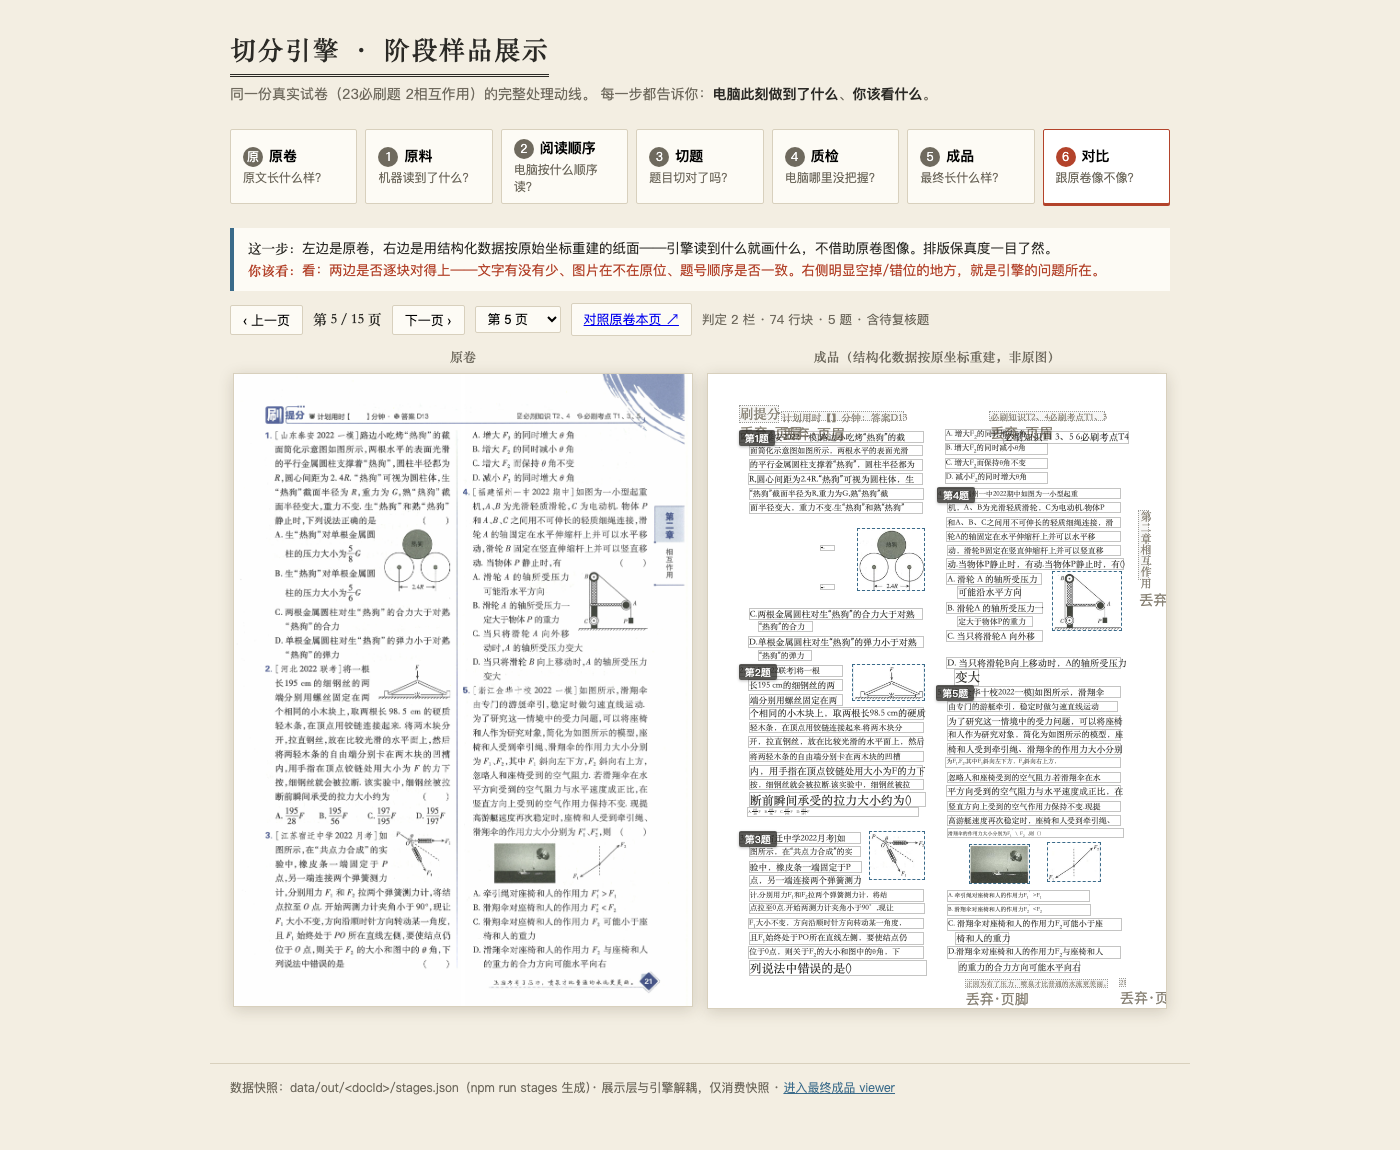
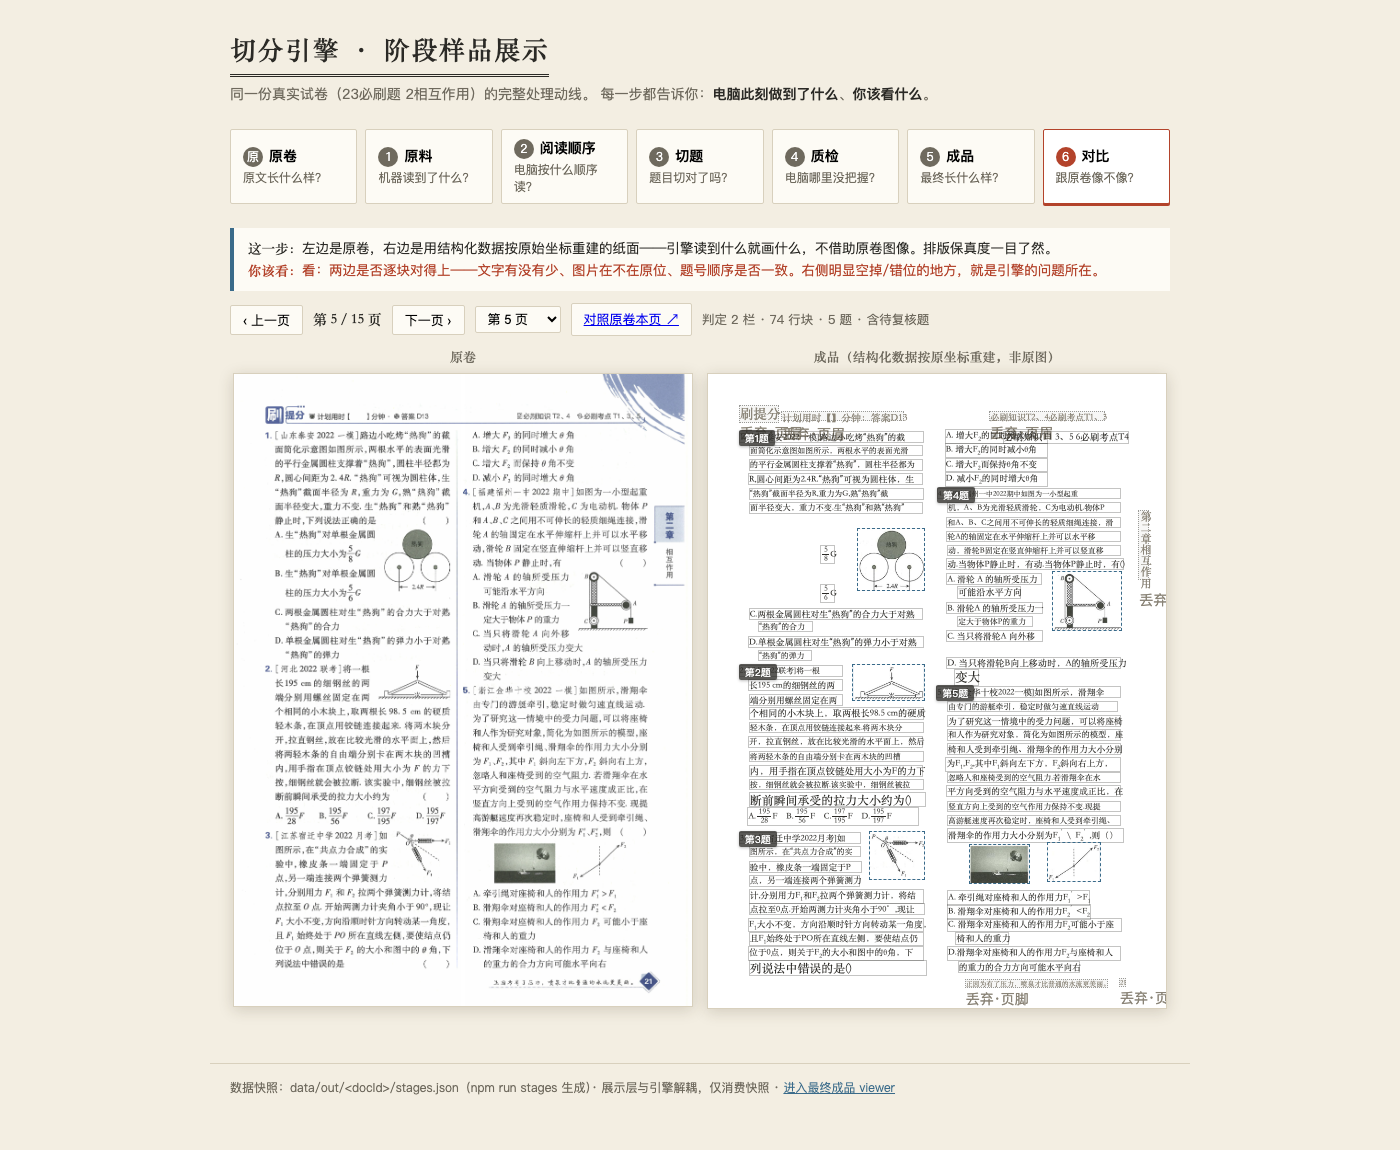
fix: 公式块豁免宽度夹子（修复 C1 过夹）+ 审计报告自身覆盖缺口
C1：clampByWidth 用原始 LaTeX 源码度量宽度（比渲染文本宽 3–5×），把公式块
字号压到基准的 0.20–0.75×（131/1015 块 <0.8×，最极端 1.76px）。
裁定：公式块不参与宽度夹子 —— emWidthOf 是线性字符宽度模型，对 \frac/\sqrt
这类二维排版不成立，用错误模型去夹比不夹更糟。公式块仍走 fontForBlock 的 baseFont。

- stages/font-metrics.js: 新增 hasMathSource(text)=/[\\$]|[_^]/；clampByWidth
  命中即返回未夹字号；头注释与 Ruling 落库
- stages/font-metrics.d.ts: hasMathSource 声明 + clampByWidth 注释对齐
- scripts/audit-render.mjs: 「字号保真度」「文字溢出」两节各报一行覆盖统计
  （覆盖块数/排除块数/排除原因分桶，分桶互斥且相加=排除总数）；文字溢出节把
  公式源码块列入排除桶（修复后触发率对其不再适用）
- tests/font-metrics.test.ts: +3 例（111→114）—— hasMathSource 命中/不命中、
  公式块豁免、纯 CJK/ASCII 仍被夹

复测（全 15 页 DOM）：
- 字号 <0.8×基准 131→17（残留全为非公式：8 行级块 + 9 丢弃块）
- 最极端 1.76px(0.20×)→4.39px(0.50×)
- 真实 DOM 溢出率 1.58%→5.42%；+39 全部为公式块，8 竖排 + 8 非公式逐块不变
- 审计覆盖统计：保真度 198/863（含公式源码 195）、溢出 925/491（含公式源码 280）

重拍 15 页对比截图 + 阶段 2/3 代表页（阶段 1 走 fontForRawBlock 不涉 clamp，
逐字节不变；第 3 页无公式块，逐字节不变）。docs 更正受影响数字（标注而非删除）：
stages-review.md 新增九轮 §9.1–§9.5、DECISIONS.md 新增 §19.7。
一并纳入控制器刚写入的计划 Task 7 追加（含 Ruling）。

npm run check 全绿（114/114，审计 9 项归零）。

diff --git a/stages/font-metrics.js b/stages/font-metrics.js
@@ -44,9 +44,16 @@
  * ── 行高模型的过冲与宽度安全上限（R3/R5，测量定案）──
  * `fontFromLineHeight` 对**行级水平**块成立，但 bboxH 被行盒/上下延伸撑大的个别行（页眉页脚、
  * `计划用时` 行、短标签）会被高估 → 渲染宽 > bbox 宽 → 压字。`clampByWidth` 把字号夹到
- * `bboxW_px / emWidthOf(text)`（含 ASCII 与纯 CJK 一视同仁；竖排与无文本块除外）。
+ * `bboxW_px / emWidthOf(text)`（含 ASCII 与纯 CJK 一视同仁；竖排、**公式源码块**与无文本块除外）。
  * **R3 的「拉丁字形失配」假设已被测量推翻**（混合组与纯 CJK 对照几乎相等，换拉丁字体栈无效）——
  * 证据见 data/out/latin-metrics.md，改法依据见 clampByWidth 注释。
+ *
+ * ── 公式块豁免夹子（C1 修复，Task 7）──
+ * `clampByWidth` 曾对**含公式的块**用 `emWidthOf(block.text)` 度量，而 `block.text` 是**原始
+ * LaTeX 源码**（如 `\frac{\sqrt3}{3}mg` 记 12.25em），渲染文本只有 3em → 夹子把公式块字号压到
+ * 基准的 **0.20–0.75×**（131/1015 块 <0.8×，最极端 **1.76px**），且审计判定项因排除 `\`/`$`/ASCII
+ * 块而看不见它。**裁定：公式块不参与宽度夹子**（`hasMathSource` 命中即返回未夹字号）——
+ * `emWidthOf` 是线性字符宽度模型，对二维排版（`\frac`/`\sqrt`）不成立，用错误模型夹比不夹更糟。
  */
 
 /** 行高 → 字号（画布 px）。
@@ -81,6 +88,20 @@ export function baseFontOfPage(blocks, pageWidth, canvasW) {
   if (!hs.length) return null;
   hs.sort((a, b) => a - b);
   return fontFromLineHeight((hs[Math.floor(hs.length / 2)] / pageWidth) * canvasW);
+}
+
+/** 公式源码判定（C1 修复，Task 7）：文本含 LaTeX 源码特征即命中 —— **反斜杠、美元符、
+ * 下划线、脱字符任一**。判据逐字采用裁定 `/[\\$]|[_^]/`，不自创更复杂的启发式。
+ *
+ * 为什么需要它：`block.text` 是**原始 LaTeX 源码**（如 `$F_{1}$`、`\frac{mg}{k_1+k_2}`），
+ * 而实际渲染走的是 `prettifyLatex(b.text)`。源码字符数比渲染文本宽 **3–5 倍**，
+ * `emWidthOf(raw)` 会把公式块的当量宽算大几倍 → `clampByWidth` 把字号压到基准的 0.20–0.75×
+ * （131/1015 块 <0.8×，最极端 1.76px）。命中本函数即表示「该块的宽度不能按源码度量」。
+ *
+ * @param {string} text 块的**原始**文本（LaTeX 源码）
+ */
+export function hasMathSource(text) {
+  return /[\\$]|[_^]/.test(text ?? "");
 }
 
 /** 竖排文本判定（R4）：bbox **高 > 2×宽**（严格大于，`bboxH == 2*bboxW` 不算竖排）
@@ -140,6 +161,15 @@ export function fontForBlock(block, pageWidth, canvasW, baseFont) {
  *   （只有本会溢出的块被夹小；未溢出的块 `min()` 不改其字号，故「字号保真度」中位数不受影响）。
  * 竖排块（R4）：横向宽度不是约束（文字沿纵向排布），原样返回。
  *
+ * ── 公式块豁免（C1 修复，Task 7，**Ruling**）──
+ * **公式块（`hasMathSource` 命中）不参与宽度夹子，直接返回未夹字号。**
+ * 理由：`emWidthOf` 是**线性字符宽度模型**，对 `\frac`/`\sqrt` 这类**二维排版**根本不成立
+ *   —— 源码 `\frac{\sqrt{3}}{3}mg` 记 12.25em，实际渲染 `√33mg` 只有 3em；用错误的模型去夹
+ *   比不夹更糟（实测把公式块字号压到基准的 0.20–0.75×，最极端 1.76px，肉眼近乎不可见）。
+ * 公式块已有专属规则（`fontForBlock` 用页面基准字号 `baseFont`），其溢出风险由视觉审板承担。
+ * 代价：公式块的横向溢出不再被结构性防止（审计「文字溢出」节因此把公式块列入排除分桶，
+ *   见 scripts/audit-render.mjs）。
+ *
  * @param {number} fontPx 行高模型给出的字号（画布 px）
  * @param {{text?: string, bbox: number[]}} block
  * @param {number} pageWidth 页面宽（pt）
@@ -147,6 +177,7 @@ export function fontForBlock(block, pageWidth, canvasW, baseFont) {
  */
 export function clampByWidth(fontPx, block, pageWidth, canvasW) {
   if (isVerticalText(block.bbox, block.text ?? "")) return fontPx; // 竖排：横向宽度非约束
+  if (hasMathSource(block.text ?? "")) return fontPx; // 公式块豁免（C1 修复，见上方 Ruling）
   const em = emWidthOf(block.text ?? "");
   if (em <= 0) return fontPx; // 无文字（图片/空块）：无可贴合，不夹
   const wPx = ((block.bbox[2] - block.bbox[0]) / pageWidth) * canvasW;

diff --git a/tests/font-metrics.test.ts b/tests/font-metrics.test.ts
@@ -11,6 +11,7 @@ import {
   fontForBlock,
   fontForRawBlock,
   isVerticalText,
+  hasMathSource,
   clampByWidth,
   emWidthOf,
 } from "../stages/font-metrics.js";
@@ -165,4 +166,37 @@ test("clampByWidth：竖排块（R4）与无文本块原样返回（横向宽度
   assert.equal(clampByWidth(17.08, v, PAGE_W, CANVAS_W), 17.08);
   assert.equal(clampByWidth(9, { kind: "image", text: "", bbox: [0, 0, 10, 200] }, PAGE_W, CANVAS_W), 9);
   assert.equal(clampByWidth(9, { kind: "image", bbox: [0, 0, 10, 200] }, PAGE_W, CANVAS_W), 9);
+});
+
+// ── Task 7：公式源码判定 + 公式块豁免夹子（修复 C1 过夹）────────────────────────
+
+test("hasMathSource：反斜杠/美元符/下划线/脱字符任一即命中（逐字用 /[\\\\$]|[_^]/）", () => {
+  assert.equal(hasMathSource("$F_{1}$"), true); // 美元符 + 下划线
+  assert.equal(hasMathSource("\\frac{mg}{k_1+k_2}"), true); // 反斜杠
+  assert.equal(hasMathSource("v_0"), true); // 仅下划线
+  assert.equal(hasMathSource("x^2"), true); // 仅脱字符
+  assert.equal(hasMathSource("重力弹力摩擦力"), false); // 纯 CJK：无公式源码
+  assert.equal(hasMathSource("A.0.20 B.0.30"), false); // 纯 ASCII 标点数字：无公式源码
+  assert.equal(hasMathSource(""), false);
+  assert.equal(hasMathSource(undefined as unknown as string), false); // 容空
+});
+
+test("clampByWidth：含公式源码的块**豁免夹子**（返回未夹字号）—— 修复 C1 过夹", () => {
+  // 原始 LaTeX 源码当量宽远大于渲染文本（3–5×），夹子若生效会把字号压到基准的 0.2–0.75×
+  const frac = { kind: "text", text: "{ \\frac { \\sqrt { 3 } } { 3 } } m g", bbox: [0, 0, 60, 15] };
+  const wPx = (60 / PAGE_W) * CANVAS_W;
+  // 先证明「若无豁免，夹子确实会把它压小」：emWidthOf(raw) 远大于渲染文本 → 上限 < 8.74
+  assert.ok(wPx / emWidthOf(frac.text) < 8.74, "前提：原始 LaTeX 当量宽会触发夹子");
+  // 豁免后：原样返回未夹字号（修复前这里是 ≈6.5px，即基准 8.74px 的 0.74×）
+  assert.equal(clampByWidth(8.74, frac, PAGE_W, CANVAS_W), 8.74);
+  const sub = { kind: "text", text: "$F_{1}$", bbox: [0, 0, 60, 15] };
+  assert.equal(clampByWidth(8.74, sub, PAGE_W, CANVAS_W), 8.74);
+});
+
+test("clampByWidth：豁免只针对公式源码块 —— 同一 bbox/字号的纯 CJK 块仍被夹", () => {
+  const cjk = { kind: "text", text: "重力弹力摩", bbox: [0, 0, 60, 15] };
+  approx(clampByWidth(20, cjk, PAGE_W, CANVAS_W), 15.3, 0.1); // 5 字 → 76.5/5 = 15.3
+  // 含 ASCII 但无公式源码的块同样仍被夹（不受豁免影响）
+  const ascii = { kind: "text", text: "A.0.20", bbox: [0, 0, 100, 15] };
+  approx(clampByWidth(80, ascii, PAGE_W, CANVAS_W), 127.5 / 2.6, 0.01);
 });

diff --git a/stages/font-metrics.d.ts b/stages/font-metrics.d.ts
@@ -33,8 +33,11 @@ export function fontForBlock(
 /** 竖排文本判定：bboxH > 2×bboxW（严格大于）且 emWidthOf(text) ≥ 2。 */
 export function isVerticalText(bbox: number[], text: string): boolean;
 
+/** 公式源码判定（C1 修复）：`/[\\$]|[_^]/` —— 反斜杠、美元符、下划线、脱字符任一即命中。 */
+export function hasMathSource(text: string): boolean;
+
 /** 宽度安全上限（R3/R5）：`min(fontPx, bboxW_px / emWidthOf(text))`。
- *  竖排块或无文本块（emWidthOf=0）原样返回 fontPx。 */
+ *  竖排块、**公式源码块**（hasMathSource 命中）或无文本块（emWidthOf=0）原样返回 fontPx。 */
 export function clampByWidth(
   fontPx: number,
   block: MetricBlock,

diff --git a/docs/design/stages-review.md b/docs/design/stages-review.md
@@ -419,6 +419,10 @@
 且因审计「可判块」口径排除了 `\`/`$`/ASCII，**判定项看不见它**（`npm run check` 全绿）。
 **本轮不修**（简报硬约束：不得改 `clampByWidth`），**如实报告、交回裁定**。
 
+> **【更正，2026-10-08，九轮/Task 7】** C1 缺陷**已修**（裁定：公式块不参与宽度夹子，见 §9.1）。
+> 本节上文的 **131 块 <0.8×、62 块 <0.6×、最极端 1.76px** 是**修复前**数字，保留作对照；
+> 修复后复测为 **17 块 <0.8×、3 块 <0.6×、最极端 4.39px**（残留 17 块**全部非公式**，见 §9.2）。
+
 ### 8.4 逐页 6 项审板（15 页）
 
 对照：左 = 原卷页图，右 = 结构化重建（`?stage=6&page=N`）。判据同 Task 3：
@@ -444,6 +448,8 @@
 
 - **① 字号**：纯 CJK 正文行**通过**（§8.3 结果一，ratio 中位 1.0011；审计可判块 198 个中位 1.0199）；
   但**含公式的选项行 131 个块被夹到基准的 0.20–0.80 倍**（§8.3 结果二）——主目标在「公式行」这一子群上**未达成**。
+  > **【更正，九轮/Task 7】** 公式行子群**已修复**（§9.1）：<0.8×基准 **131 → 17**，最极端 **1.76 → 4.39px**；
+  > 残留 17 块**均非公式**（8 行级块 + 9 丢弃块，数据缺陷/长行，见 §9.2）。公式行主目标**已达成**。
 - **② 碰撞**：更正为 **6/15 页**（§8.2），残留碰撞以「文字标签×图片块」「页眉家具行×邻行」为主。
 - **③ 垂直基线**：无整体偏高/偏低；行框（`line-height:1.15`）比墨迹高约 20%，但文字在框内大致居中。
 - **④ EM SPACE**：正常。第 2 页 `A.0.20 B.0.30 / C.0.35 D.0.45` 分隔清晰（放大图 `data/out/_t6-zoom-p1.png`）。
@@ -468,8 +474,92 @@
 
 | # | 问题 | 现象 / 证据 | 为什么本轮不修 |
 |---|------|-------------|----------------|
-| C1 | **`clampByWidth` 对含公式的块过夹**（本轮新发现，最重要） | 131/1015 块字号 < 0.8× 基准、62 块 < 0.6×；最极端 1.76px（基准 0.20×）；根因 `emWidthOf(原始 LaTeX)` 比渲染文本宽 3–5×；证据 `data/out/_t6-emraw.json`、`_t6-fonts-summary.json`、`_t6-zoom-p1.png` | 简报硬约束禁止改 `clampByWidth`；须由裁定决定改法（如按渲染后文本度量） |
-| C2 | **审计判定项看不见 C1** | 「字号保真度」可判块排除 `\`/`$`/ASCII，公式块不入选；`npm run check` 全绿 | 判据口径问题，需单独定案 |
+| C1 | **`clampByWidth` 对含公式的块过夹**（本轮新发现，最重要） | 131/1015 块字号 < 0.8× 基准、62 块 < 0.6×；最极端 1.76px（基准 0.20×）；根因 `emWidthOf(原始 LaTeX)` 比渲染文本宽 3–5×；证据 `data/out/_t6-emraw.json`、`_t6-fonts-summary.json`、`_t6-zoom-p1.png` | ~~简报硬约束禁止改 `clampByWidth`~~ **已修（九轮/Task 7，§9.1）：公式块豁免夹子**；复测 <0.8× 131→17，最极端 1.76→4.39px |
+| C2 | **审计判定项看不见 C1** | 「字号保真度」可判块排除 `\`/`$`/ASCII，公式块不入选；`npm run check` 全绿 | ~~判据口径问题，需单独定案~~ **已修（九轮/Task 7，§9.3）：审计两节各报覆盖统计，分桶含「含公式源码」（保真度节 195 块），盲区被显式报出** |
 | C3 | **残留 6 页碰撞** | 文字×图片块 6 对、页眉家具行×邻行 2 对、文本重复粘连 1 对、标题压邻行 1 对（§8.2，去重共 10 对） | 多为上游数据/家具行问题，非本轮范围 |
 | C4 | **`raw` 段级块「宽度上限触发率」95.96%** | 审计提示项：198 个 raw 块中 190 个的高度模型字号被框宽压小（量纲不同，`fontForRawBlock` 本就取 min） | 阶段 1 定位是「看框对不对」不是「看文字保真」，提示项只展示 |
 | C5 | **丢弃块「宽度上限触发率」76.74%** | 审计提示项 | 丢弃块含页眉页脚家具行，属上游噪声，只展示 |
+
+---
+
+## 九轮：公式块豁免宽度夹子（C1 修复）+ 审计报告自身覆盖缺口（2026-10-08，Task 7）
+
+**来源**：八轮 §8.7 的 C1/C2（评审复算确认）。**裁定**：公式块不参与宽度夹子。本节记录修复、
+复测与审计覆盖统计；八轮 §8.3/§8.4/§8.7 的相关数字已就地**标注更正**（保留旧数字作对照）。
+
+### 9.1 修复：公式块豁免 `clampByWidth`（C1）
+
+`stages/font-metrics.js` 新增纯函数 `hasMathSource(text) = /[\\$]|[_^]/.test(text)`；
+`clampByWidth` 命中时**返回未夹字号**（`stages/font-metrics.js:180`）。
+
+- **依据（Ruling）**：`emWidthOf` 是**线性字符宽度模型**，对 `\frac`/`\sqrt` 这类**二维排版**不成立
+  —— 源码 `\frac{\sqrt{3}}{3}mg` 记 12.25em，渲染文本 `√33mg` 只有 3em；用错误的模型去夹**比不夹更糟**。
+- **公式块字号规则不变**：仍走 `fontForBlock` 的 `baseFont`（页面基准字号），**未新增字号规则**。
+- **代价**：公式块的横向溢出不再被结构性防止 → 真实 DOM 溢出率回升（§9.2），由视觉审板承担。
+
+### 9.2 复测（全 15 页，浏览器 DOM 实测，对比模式）
+
+| 指标 | 修复前 | 修复后 | 证据 |
+|------|--------|--------|------|
+| 字号 `<0.8×基准` 的块数 | **131** | **17** | `data/out/_t7-{before,after}-fonts-*.json` |
+| 字号 `<0.6×基准` 的块数 | 62 | **3** | 同上 |
+| 最极端字号 | **1.76px**（0.20×，p11「√33mg」） | **4.39px**（0.50×，p14 重复文本） | 同上 |
+| 真实 DOM 溢出率（`文字Range宽/块框宽>1.05`） | **1.58%**（16/1015） | **5.42%**（55/1015） | `data/out/_t7-{before,after}-ovf.ndjson` |
+
+**残留 17 块（全部非公式）**：8 个行级块 + 9 个丢弃块。
+- 行级块多为**数据缺陷**（文本重复粘连，如 `列关系式正确的是列关系式正确的是`、`增加增加`）或过长的纯 CJK 行；
+- 丢弃块（页脚/鸡汤文）同理。均被 `clampByWidth` **正当地**夹到填满 bbox（R3/R5 既有行为），**与公式无关**。
+
+**溢出回升归因（逐块，临时禁用豁免对照复算）**：
+
+| 溢出构成 | 修复前 | 修复后 |
+|----------|--------|--------|
+| 竖排块 `blk-vertical`（R4 残留） | 8 | 8（同一批，逐块不变） |
+| **含公式源码** | **0** | **39** |
+| 其它（非公式非竖排） | 8 | 8（同一批，逐块不变） |
+| **合计** | **16（1.58%）** | **55（5.42%）** |
+
+→ **Δ = +39 恰好全部是公式块**（块的 `title`＝原始 LaTeX 命中 `hasMathSource`）。8 竖排与 8 非公式
+**逐块不变**。即：**回升完全由公式块豁免带来，非公式块无任何新增溢出**（证据 `data/out/_t7-{before,after}-ovf3.ndjson`）。
+
+### 9.3 审计报告自身覆盖缺口（C2）
+
+G1「不静默失败」同样适用于**门自身**。`scripts/audit-render.mjs` 第 5、6 节各增一行覆盖统计，
+分桶**互斥且相加 = 排除总数**（无未归类残差）。实测输出：
+
+```
+     覆盖统计（字号保真度）：覆盖 198 块 / 排除 863 块（分桶合计 863 = 排除总数 ✓）
+       排除原因分桶：含公式源码 195 · 含 ASCII 字母数字 488 · 全角字数不足 51 · bbox 异常（比例越界） 13 · 其它非覆盖字符 19 · 非文本块（图片/空文本） 97 · 竖排块（横向非约束） 0 · 无当量宽（emWidthOf=0） 0
+```
+
+```
+     覆盖统计（文字溢出）：覆盖 925 块 / 排除 491 块（分桶合计 491 = 排除总数 ✓）
+       排除原因分桶：含公式源码 280 · 含 ASCII 字母数字 0 · 全角字数不足 0 · bbox 异常（比例越界） 0 · 其它非覆盖字符 0 · 非文本块（图片/空文本） 203 · 竖排块（横向非约束） 8 · 无当量宽（emWidthOf=0） 0
+```
+
+- **「字号保真度·含公式源码 195」正是 C1 的盲区**——此前 0 报告，现在被显式报出（198 + 863 = 1061，与 G7 基线一致）。
+- **「文字溢出」节把公式块列入排除桶**：修复后公式块豁免夹子，触发率对其不再适用（修复前它们 100% 命中，
+  把合计触发率从 **42.16% 抬到 55.10%**；本次一并更正）。行级块触发率 **45.75% → 32.77%**、
+  raw 段级块 **95.96% → 92.92%**、丢弃块 76.74% 不变。
+
+### 9.4 截图（本轮重拍，覆盖同名旧文件）
+
+时间戳 **2026-10-08 15:47**（晚于最后一次代码改动）。15 页对比 + 阶段 1/2/3 代表页：
+
+| 文件 | 状态 |
+|------|------|
+| `docs/design/stages-cap/pages/compare-p0..14.png` | ✅ 15/15 重拍（公式块字号恢复后渲染已变，八轮截图作废） |
+| `docs/design/stages-cap/stage1-raw-p0.png` | ✅ 重拍 |
+| `docs/design/stages-cap/stage2-order-p0.png` | ✅ 重拍 |
+| `docs/design/stages-cap/stage3-seg-p0.png` | ✅ 重拍 |
+
+目视复核：第 11 页（`compare-p10.png`）右栏公式选项行（`A.细绳的拉力一定减小` 等）已恢复可读，
+不再是被压到 1.76px 的不可见状态。
+
+### 9.5 残留问题（本轮如实记录）
+
+| # | 问题 | 现象 / 证据 | 处置 |
+|---|------|-------------|------|
+| D1 | 残留 17 块 <0.8×基准（非公式） | 8 行级块（数据重复缺陷/长行）+ 9 丢弃块；被夹到填满 bbox | **不修**：夹子对纯 CJK 的正当行为（R3/R5），根因是上游数据重复 |
+| D2 | 真实 DOM 溢出率 1.58% → 5.42% | +39 全部为公式块（豁免夹子所致）；8 竖排 + 8 非公式逐块不变 | **已知代价**：公式块二维排版无线性宽度模型，溢出风险交视觉审板（§9.1） |
+| D3 | 8 个竖排块文字 Range 宽 > 块框宽（ratio≈1.5） | `blk-vertical` 窄框（10px）内文字 Range 报 15px | 八轮已记录（R4 残留），本轮不修 |
